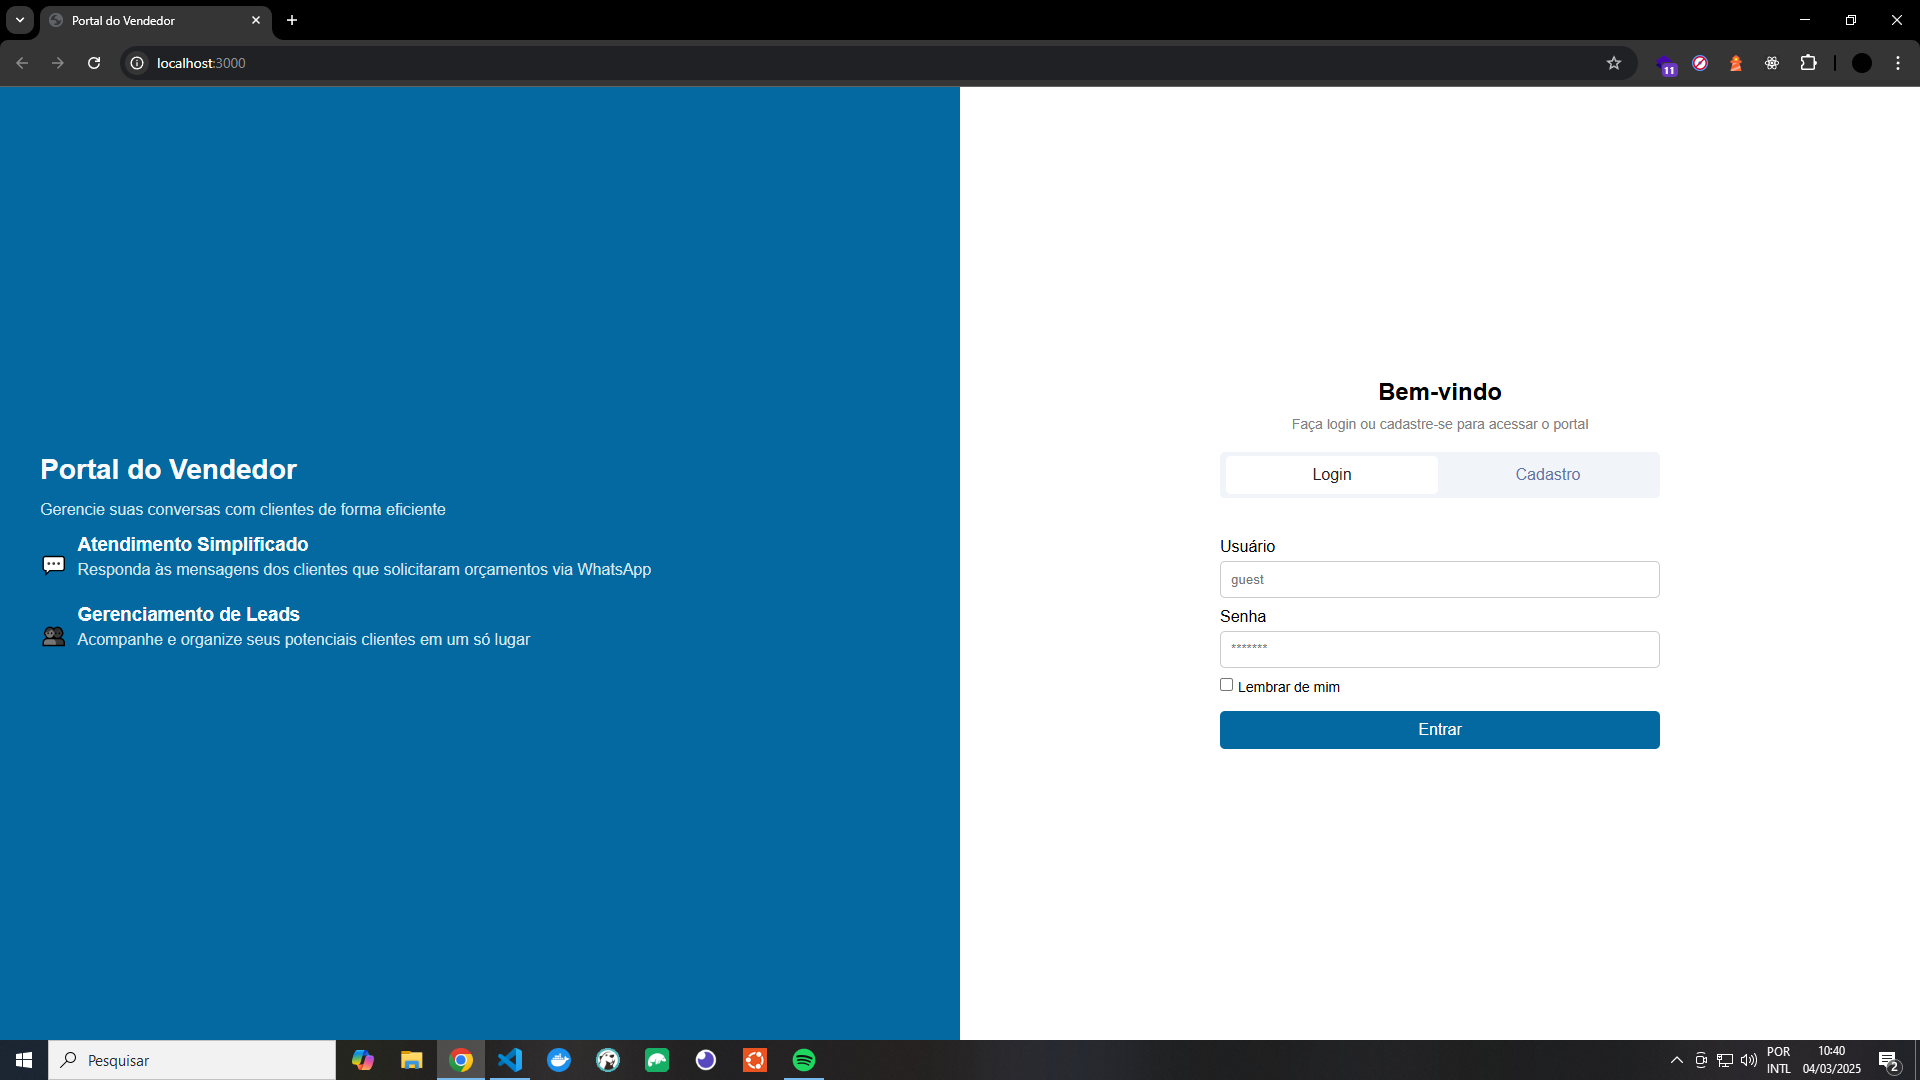
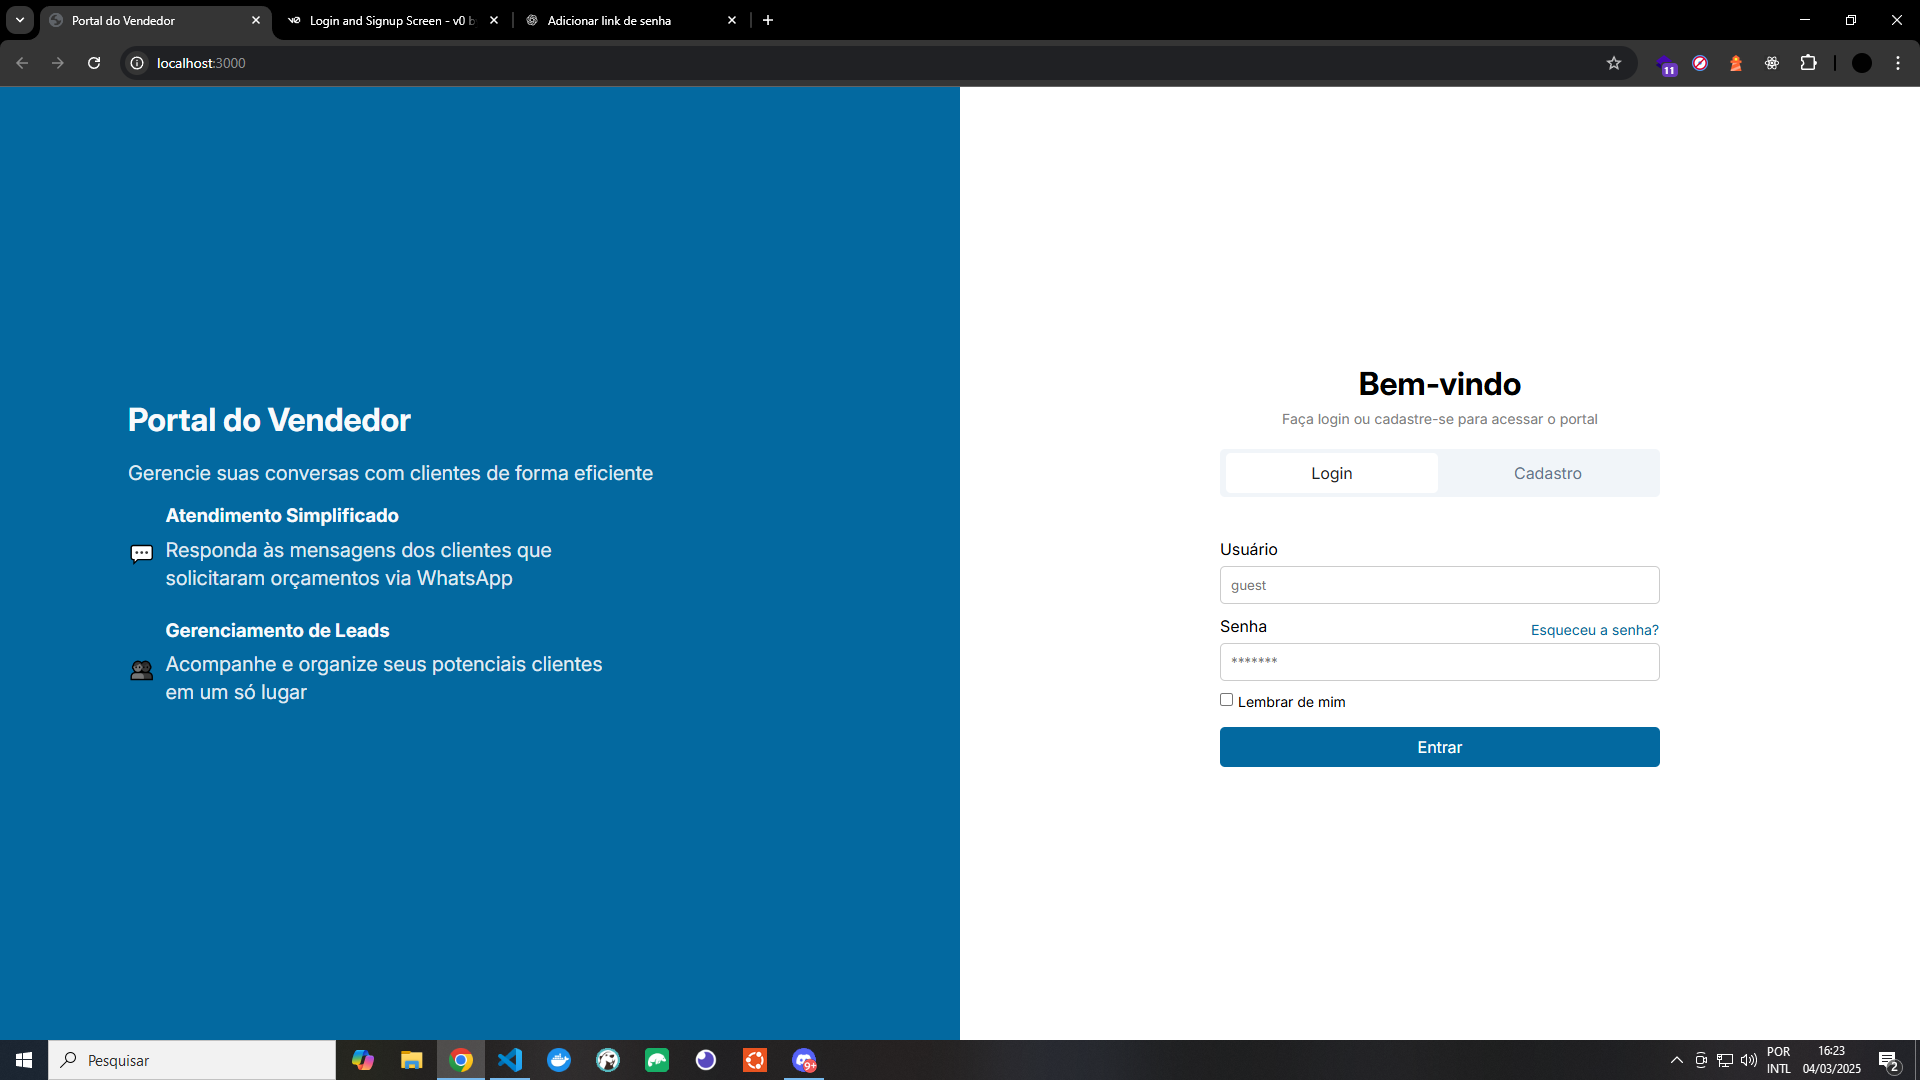
add: forgotPass

diff --git a/public/css/home.css b/public/css/home.css
@@ -2,11 +2,12 @@
   margin: 0;
   padding: 0;
   box-sizing: border-box;
-  font-family: Arial, sans-serif;
+  font-family: "Inter", sans-serif;
 }
 
 /* Define altura total da tela */
 body {
+  line-height: 1.5;
   display: flex;
   justify-content: center;
   align-items: center;
@@ -33,17 +34,24 @@ body {
   display: flex;
   flex-direction: column;
   justify-content: center;
+  align-items: center;
+}
+
+.left div {
+  width: 80%;
 }
 
 .left h1 {
-  font-size: 28px;
+  font-size: 32px;
   margin-bottom: 15px;
+  font-weight: 700;
 }
 
 .left p {
-  font-size: 16px;
   margin-bottom: 15px;
-  color: #d6e6ef;
+  color: rgba(248, 250, 252, 0.9);
+  font-size: 1.25rem;
+  line-height: 1.75rem;
 }
 
 .feature {
@@ -73,12 +81,6 @@ body {
   justify-content: center;
 }
 
-.right h2 {
-  font-size: 24px;
-  margin-bottom: 10px;
-  text-align: center;
-}
-
 .right p {
   font-size: 14px;
   text-align: center;
@@ -105,7 +107,7 @@ body {
   cursor: pointer;
   font-size: 16px;
   background: none;
-  color: #6474a8;
+  color: #64748b;
 }
 
 .tabs button.active {
@@ -113,8 +115,19 @@ body {
   color: #222;
 }
 
+.remove-style {
+  background: none;
+  color: #0369a0;
+  font-size: 14px;
+}
+
+.remove-style:hover {
+  background: none;
+  color: #004070;
+}
+
 /* Formulário */
-#login-form, #signup-form {
+#login-form, #signup-form, #forgot-password-form {
   display: flex;
   justify-content: center;
   align-items: center;
@@ -122,7 +135,7 @@ body {
 }
 
 @media (min-width: 1700px) {
-  .tabs, #login-form, #signup-form {
+  .tabs, #login-form, #signup-form, #forgot-password-form {
     width: 50%;
   }
 }
@@ -142,6 +155,27 @@ input {
   border: 1px solid #ccc;
   border-radius: 5px;
   margin-bottom: 10px;
+}
+
+.password-container {
+  display: flex;
+  justify-content: space-between;
+  align-items: center;
+  position: relative;
+}
+
+.forgot-password {
+  position: absolute;
+  right: 1px;
+  top: 50%;
+  transform: translateY(-50%);
+  font-size: 14px;
+  color: #0369a0;
+  text-decoration: none;
+}
+
+.forgot-password:hover {
+  text-decoration: underline;
 }
 
 .remember {
@@ -170,17 +204,13 @@ button:hover {
 /* Responsividade */
 @media (max-width: 768px) {
   .container {
-    flex-direction: column;
+    flex-direction: column-reverse;
     width: 100%;
   }
 
   .left, .right {
     padding: 20px;
     width: 100%;
-  }
-
-  .right {
-    max-width: 100%;
   }
 
   .tabs button {
@@ -190,6 +220,6 @@ button:hover {
 
 @media (max-width: 860px) {
   .tabs, #login-form, #signup-form {
-    width: 90%;
+    width: 70%;
   }
 }

diff --git a/public/js/main.js b/public/js/main.js
@@ -3,6 +3,8 @@ document.addEventListener("DOMContentLoaded", function () {
   const loginForm = document.getElementById("login-form");
   const signupForm = document.getElementById("signup-form");
 
+  const forgotPasswordForm = document.getElementById("forgot-password-form");
+
   buttons.forEach(button => {
     button.addEventListener("click", function () {
       // Remove a classe 'active' de todos os botões
@@ -13,9 +15,16 @@ document.addEventListener("DOMContentLoaded", function () {
       if (this.dataset.tab === "login") {
         loginForm.style.display = "block";
         signupForm.style.display = "none";
-      } else {
+        forgotPasswordForm.style.display = "none";
+      } else if (this.dataset.tab === "signup") {
         loginForm.style.display = "none";
         signupForm.style.display = "block";
+        forgotPasswordForm.style.display = "none";
+      } else {
+        this.classList.remove("active");
+        loginForm.style.display = "none";
+        signupForm.style.display = "none";
+        forgotPasswordForm.style.display = "block";
       }
     });
   });
